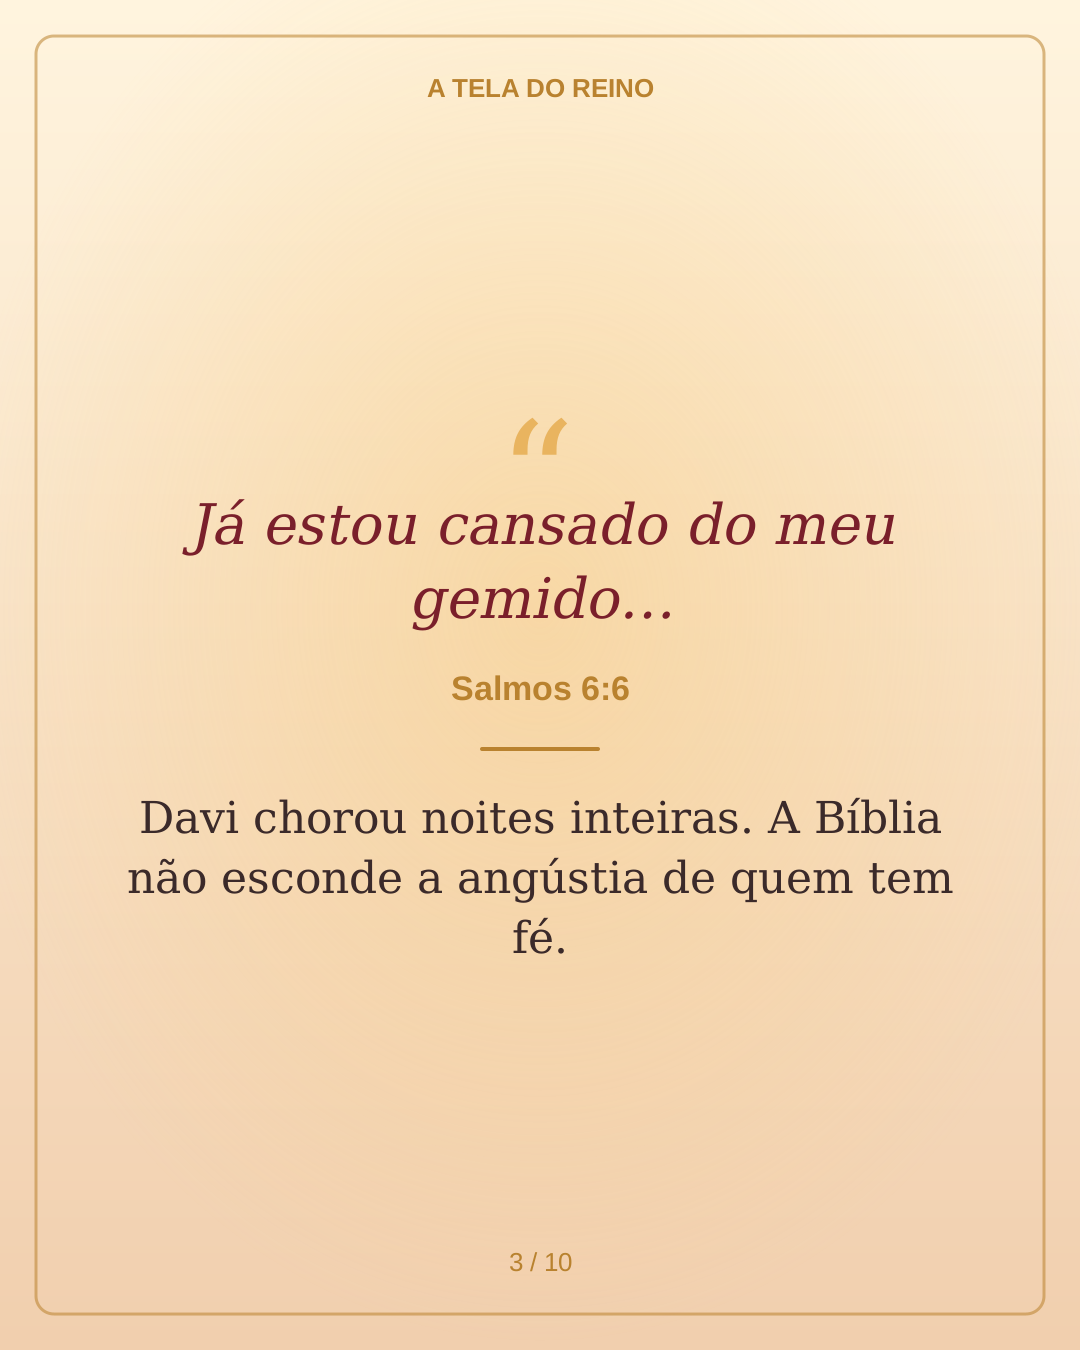
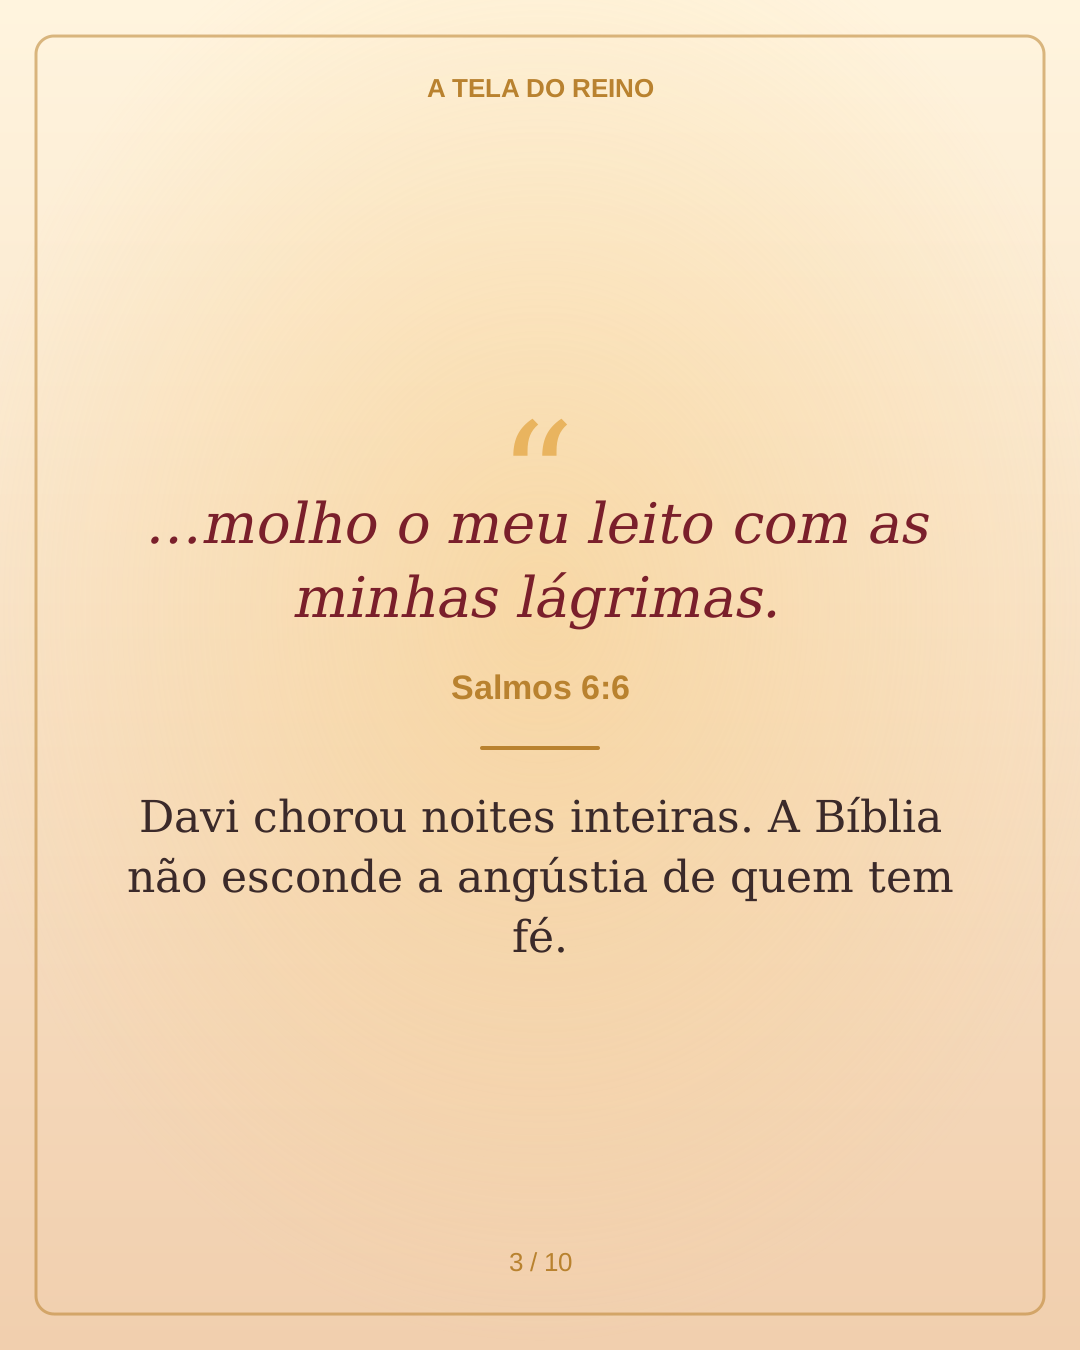
Aplica a revisão do conteúdo social de Confiar em Deus
Claude-Session: https://claude.ai/code/session_01TaZ1Ysq3cwQ8BzGdezT1Bq

diff --git a/conteudo-social/confiar-em-deus-nos-tempos-dificeis/youtube.md b/conteudo-social/confiar-em-deus-nos-tempos-dificeis/youtube.md
@@ -36,7 +36,7 @@ O próprio Jesus, no Getsêmani, disse: "A minha alma está cheia de tristeza at
 **Narração:**
 Muitas pessoas acreditam que ter fé é nunca sentir ansiedade. Mas a confiança bíblica é uma decisão tomada no meio da dúvida. Provérbios 3:5 diz: "Confia no Senhor de todo o teu coração e não te estribes no teu próprio entendimento." Estribar-se é apoiar-se. Repare: o texto não pede que você entenda tudo. Ele pede que você não coloque todo o peso sobre a sua própria compreensão.
 
-Um exemplo bonito está em Marcos 9:24. Um pai aflito, com o filho doente, diz a Jesus: "Eu creio, Senhor! Ajuda a minha incredulidade." Fé e dúvida aparecem na mesma frase. E Jesus não rejeita aquele pai. Ele o acolhe. Você também pode chegar assim, com a fé que tem.
+Um exemplo bonito está em Marcos 9:24. Um pai aflito, que trouxe o filho a Jesus, diz: "Eu creio, Senhor! Ajuda a minha incredulidade." Fé e dúvida aparecem na mesma frase. E Jesus não rejeita aquele pai. Ele o acolhe. Você também pode chegar assim, com a fé que tem.
 
 **Na tela:** Provérbios 3:5, com a palavra "estribar-se = apoiar-se" destacada. Depois, Marcos 9:24 em letras grandes.
 

diff --git a/conteudo-social/confiar-em-deus-nos-tempos-dificeis/carrossel.md b/conteudo-social/confiar-em-deus-nos-tempos-dificeis/carrossel.md
@@ -12,7 +12,7 @@ Confiar em Deus nos tempos difíceis
 Confiar não é fingir que a dor não existe. É entregar a Deus o que pesa e dar o próximo passo.
 
 **Slide 3:**
-"Já estou cansado do meu gemido…" (Salmos 6:6)
+"…molho o meu leito com as minhas lágrimas." (Salmos 6:6)
 Davi chorou noites inteiras. A Bíblia não esconde a angústia de quem tem fé.
 
 **Slide 4:**
